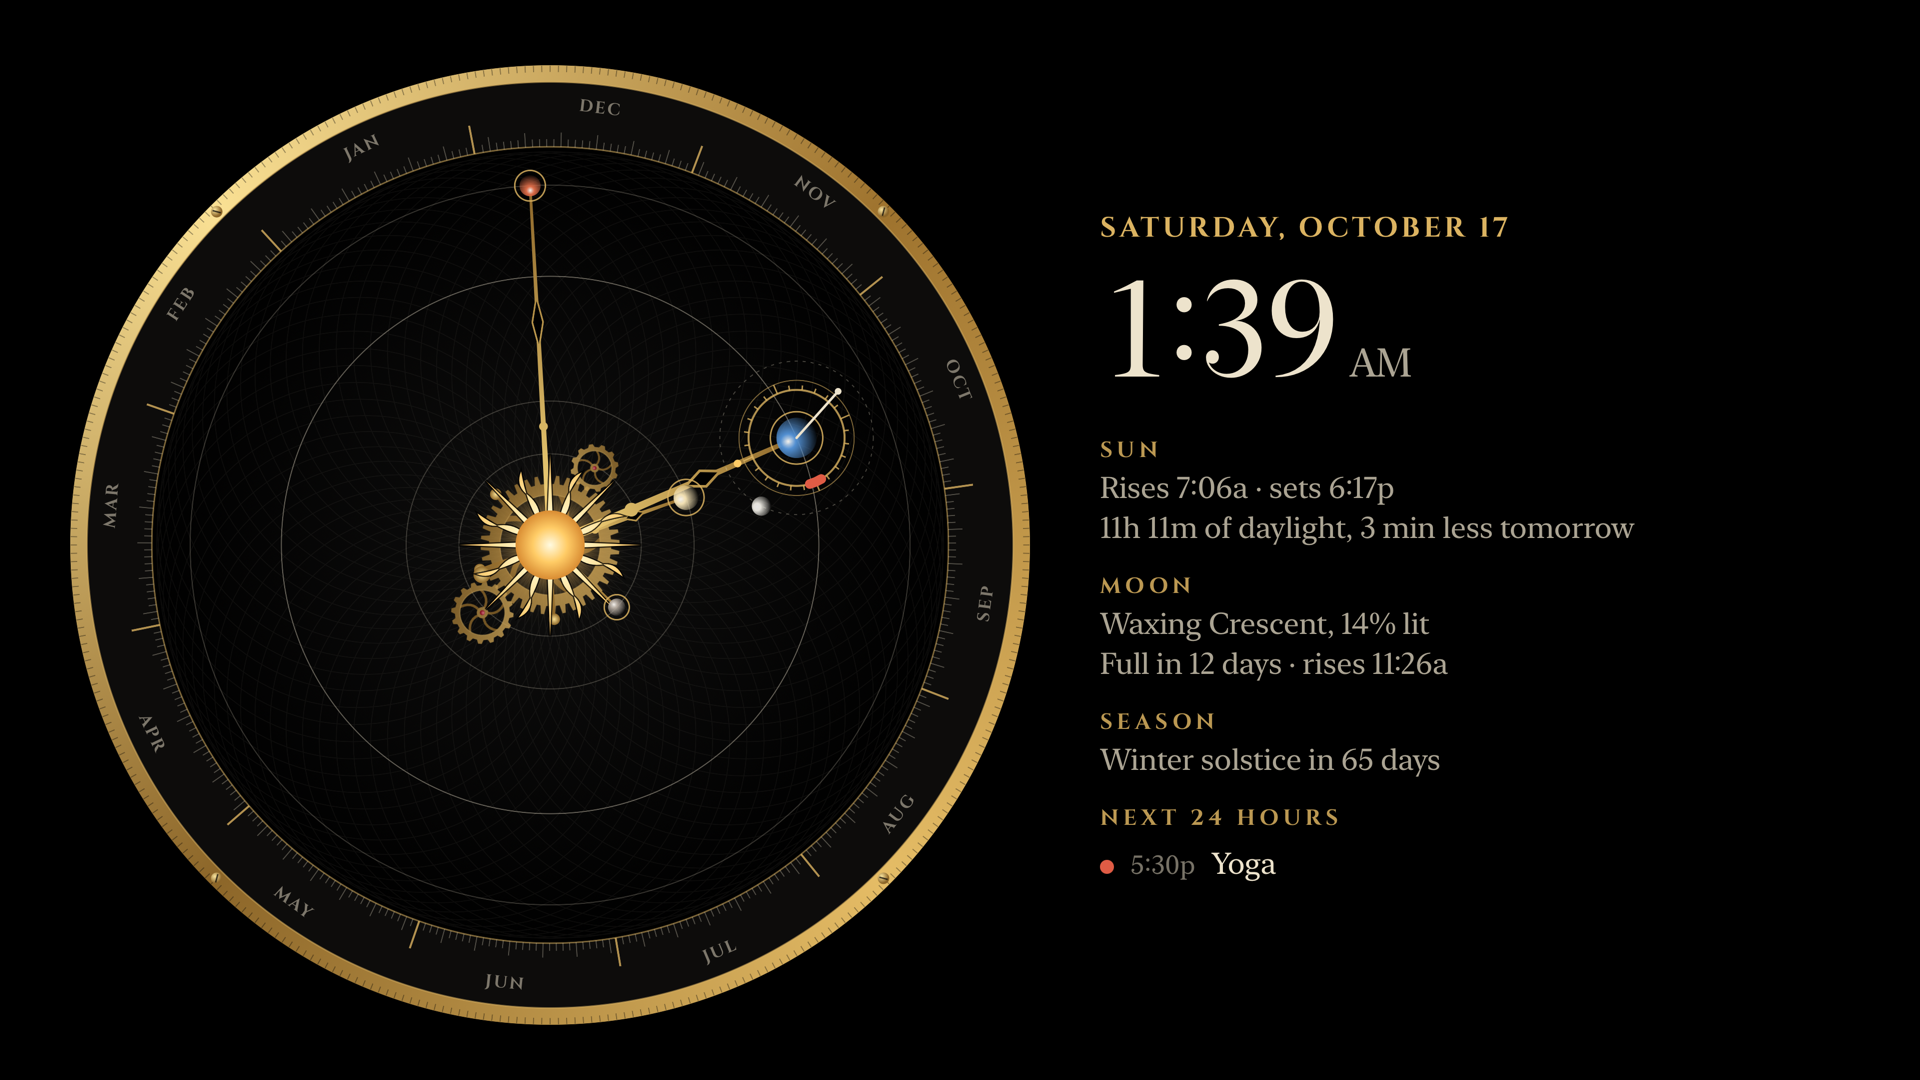
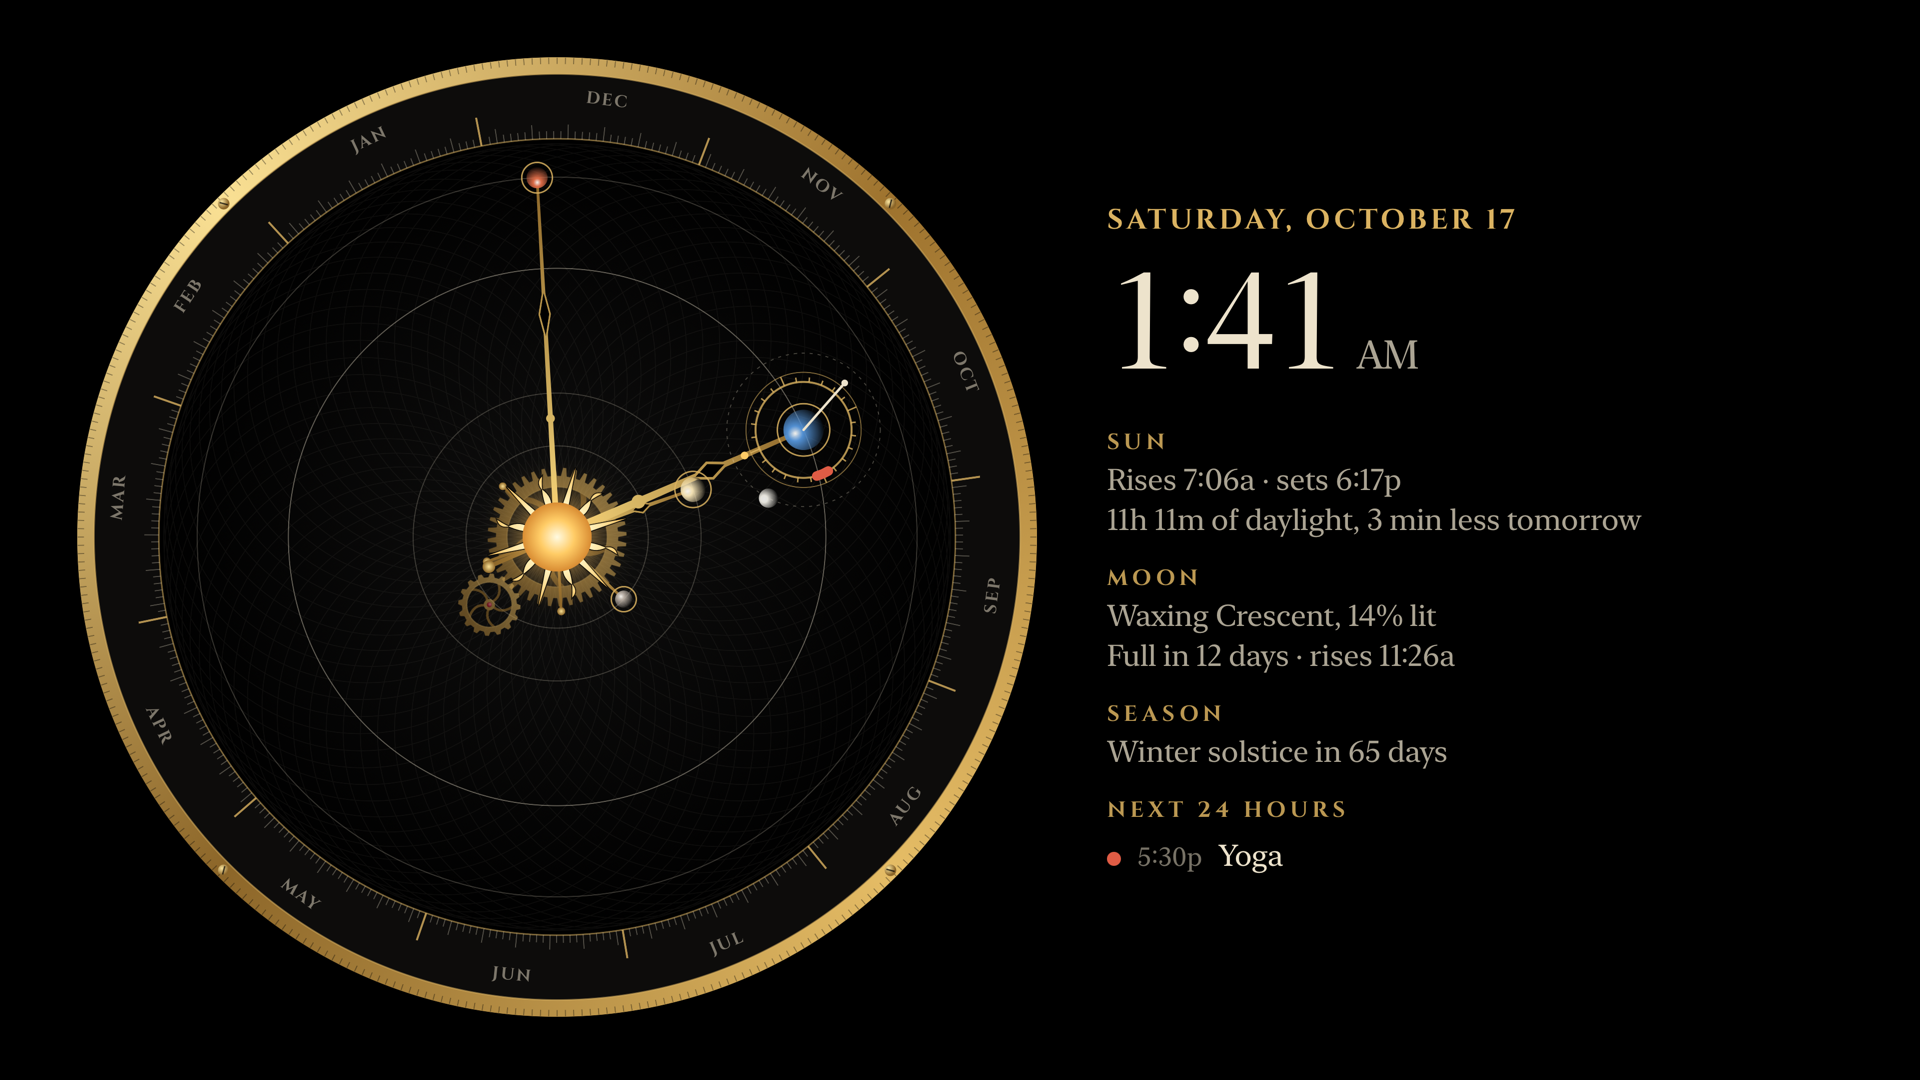
Orrery: a quieter centre
Twelve shorter rays within the wheel instead of sixteen past it, the
third wheel taken out, the wheels set back, smaller counterweights.

Claude-Session: https://claude.ai/code/session_01QaEePrhs7chuVPKev8dxuX

diff --git a/HomeDashboardTV/UI/OrreryView.swift b/HomeDashboardTV/UI/OrreryView.swift
@@ -251,10 +251,6 @@ private struct Gears: View {
                     .frame(width: radius * 0.13, height: radius * 0.13)
                     .rotationEffect(.degrees(-beat * 360 / 16 + 360 / 32))
                     .offset(x: radius * 0.2 * CGFloat(cos(.pi * 1.25)), y: -radius * 0.2 * CGFloat(sin(.pi * 1.25)))
-                Gear(teeth: 12)
-                    .frame(width: radius * 0.1, height: radius * 0.1)
-                    .rotationEffect(.degrees(-beat * 360 / 12))
-                    .offset(x: radius * 0.185 * CGFloat(cos(Double.pi / 3)), y: -radius * 0.185 * CGFloat(sin(Double.pi / 3)))
             }
         }
     }
@@ -304,7 +300,7 @@ private struct Gear: View, Equatable {
                 Gradient(colors: [Color(red: 1, green: 0.55, blue: 0.6), Color(red: 0.6, green: 0.04, blue: 0.12)]),
                 center: CGPoint(x: c.x - r * 0.02, y: c.y - r * 0.02), startRadius: 0, endRadius: r * 0.09))
         }
-        .opacity(0.8)
+        .opacity(0.6)
     }
 }
 
@@ -375,22 +371,22 @@ private struct Mechanism: View, Animatable {
             glow.fill(circle(c, r * 0.08), with: .color(Color(red: 1.0, green: 0.78, blue: 0.4).opacity(0.7)))
             // Straight rays between wavy flames, as on an old engraving's sun.
             var rays = Path()
-            for k in 0..<16 {
-                let a = Double(k) * 22.5
-                rays.move(to: at(c, r * 0.07, a - 4))
+            for k in 0..<12 {
+                let a = Double(k) * 30 + 15
+                rays.move(to: at(c, r * 0.07, a - 5))
                 if k % 2 == 0 {
-                    rays.addLine(to: at(c, r * 0.19, a))
+                    rays.addLine(to: at(c, r * 0.15, a))
                 } else {
-                    rays.addQuadCurve(to: at(c, r * 0.12, a + 3), control: at(c, r * 0.095, a - 6))
-                    rays.addQuadCurve(to: at(c, r * 0.165, a - 1), control: at(c, r * 0.145, a + 7))
-                    rays.addQuadCurve(to: at(c, r * 0.07, a + 4), control: at(c, r * 0.11, a + 5))
+                    rays.addQuadCurve(to: at(c, r * 0.105, a + 3), control: at(c, r * 0.088, a - 6))
+                    rays.addQuadCurve(to: at(c, r * 0.13, a - 1), control: at(c, r * 0.122, a + 6))
+                    rays.addQuadCurve(to: at(c, r * 0.07, a + 5), control: at(c, r * 0.1, a + 5))
                 }
-                rays.addLine(to: at(c, r * 0.07, a + 4))
+                rays.addLine(to: at(c, r * 0.07, a + 5))
             }
-            // Over the glow and out past the wheel's teeth, edged dark so they hold against the brass.
-            context.stroke(rays, with: .color(.black.opacity(0.75)), lineWidth: 2.5)
+            // Over the glow and edged dark, so they hold against the wheel's brass.
+            context.stroke(rays, with: .color(.black.opacity(0.7)), lineWidth: 2)
             context.fill(rays, with: .radialGradient(Gradient(colors: [Color(red: 1, green: 0.95, blue: 0.75), Color(red: 1, green: 0.76, blue: 0.35)]),
-                                                     center: c, startRadius: r * 0.07, endRadius: r * 0.19))
+                                                     center: c, startRadius: r * 0.07, endRadius: r * 0.15))
             context.fill(circle(c, r * 0.072), with: .radialGradient(
                 Gradient(colors: [Color(red: 1, green: 0.98, blue: 0.88), Color(red: 1, green: 0.8, blue: 0.4),
                                   Color(red: 0.85, green: 0.55, blue: 0.2)]),
@@ -468,9 +464,9 @@ private struct Mechanism: View, Animatable {
         stub.move(to: c)
         stub.addLine(to: tail)
         context.stroke(stub, with: .color(Ink.deepBrass), style: StrokeStyle(lineWidth: width * 0.8, lineCap: .round))
-        context.fill(circle(tail, max(width * 1.6, r * 0.012)), with: .radialGradient(
+        context.fill(circle(tail, max(width * 1.2, r * 0.008)), with: .radialGradient(
             Gradient(colors: [Color(red: 0.98, green: 0.88, blue: 0.58), Ink.deepBrass]),
-            center: tail, startRadius: 0, endRadius: max(width * 1.6, r * 0.012)))
+            center: tail, startRadius: 0, endRadius: max(width * 1.2, r * 0.008)))
 
         // A bead a third of the way out, and a pierced lozenge beyond it on the longer arms.
         context.fill(circle(at(c, length * 0.33, angle), width * 1.3), with: shade)
